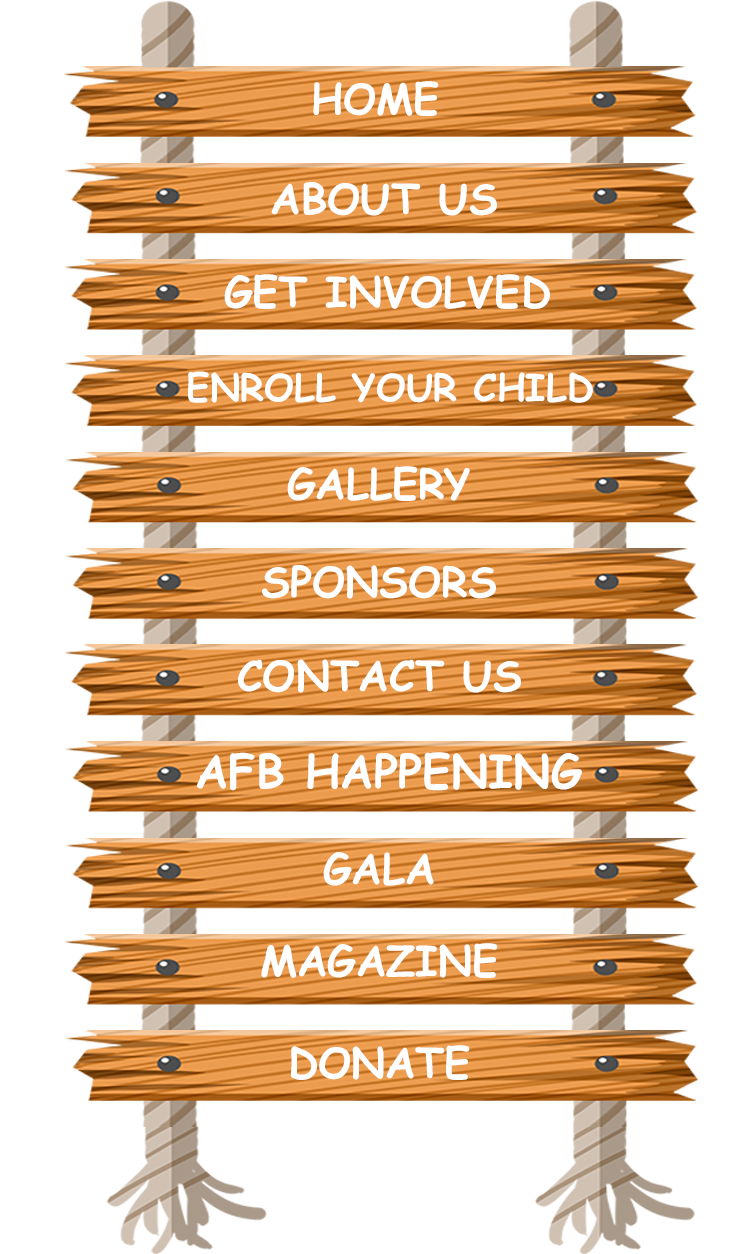
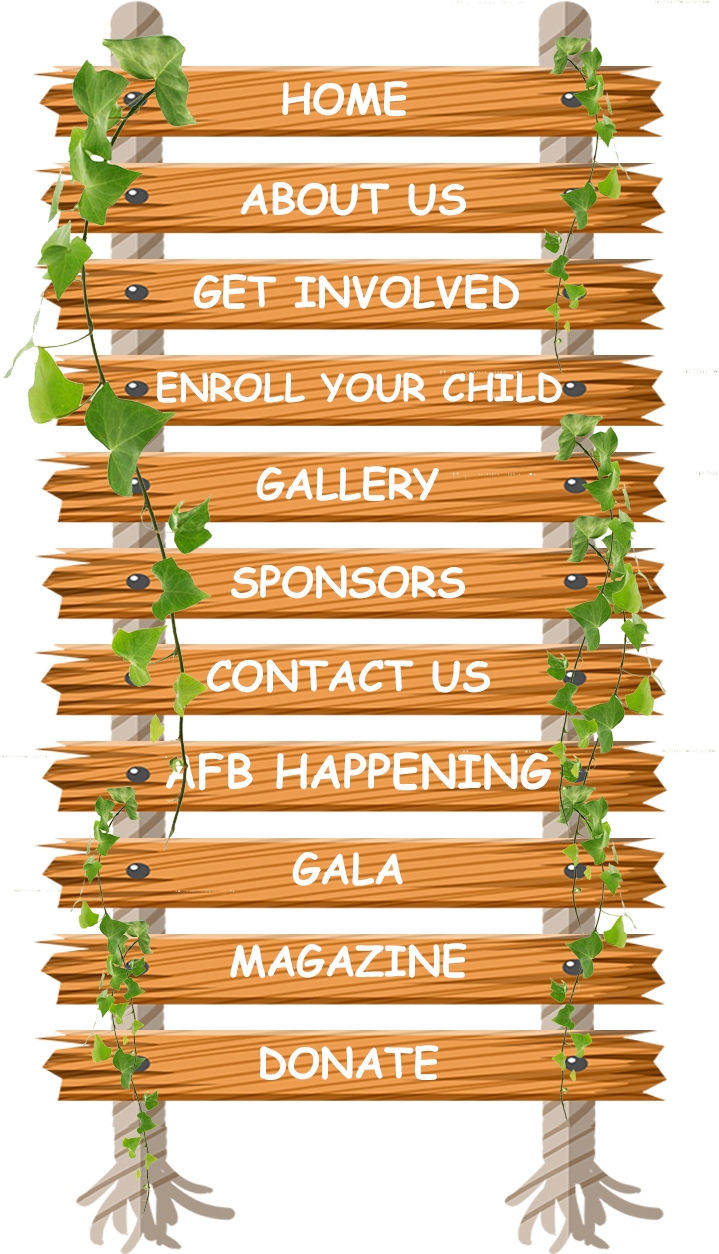
update

diff --git a/Content/css/all.css b/Content/css/all.css
@@ -4390,15 +4390,24 @@ readers do not read off random characters that represent icons */
 .fas {
   font-family: 'Font Awesome 5 Free';
   font-weight: 900; }
-  @media only screen and (max-width: 768px){
+  @media only screen and (max-width: 767px){
     .navbar-default .navbar-collapse .navbar-nav{
-      background-image: url(/Content/upload/Menu.png);
+      /* background-image: url(/Content/upload/Menu.png);
+      background-position: center center;
+      background-repeat: no-repeat;
+      background-size: cover;
+      height: 90vh;
+      max-height: 680px; */
+    }
+    .navbar-default .navbar-collapse .navbar-nav > li{
+      display: block;
+      background-image: url(/Content/upload/panel.png);
       background-position: center center;
       background-repeat: no-repeat;
       background-size: cover;
     }
-    .navbar-default .navbar-collapse .navbar-nav > li{
-      opacity: 0;
+    .social{
+      margin-top: 0;
     }
   }
 
